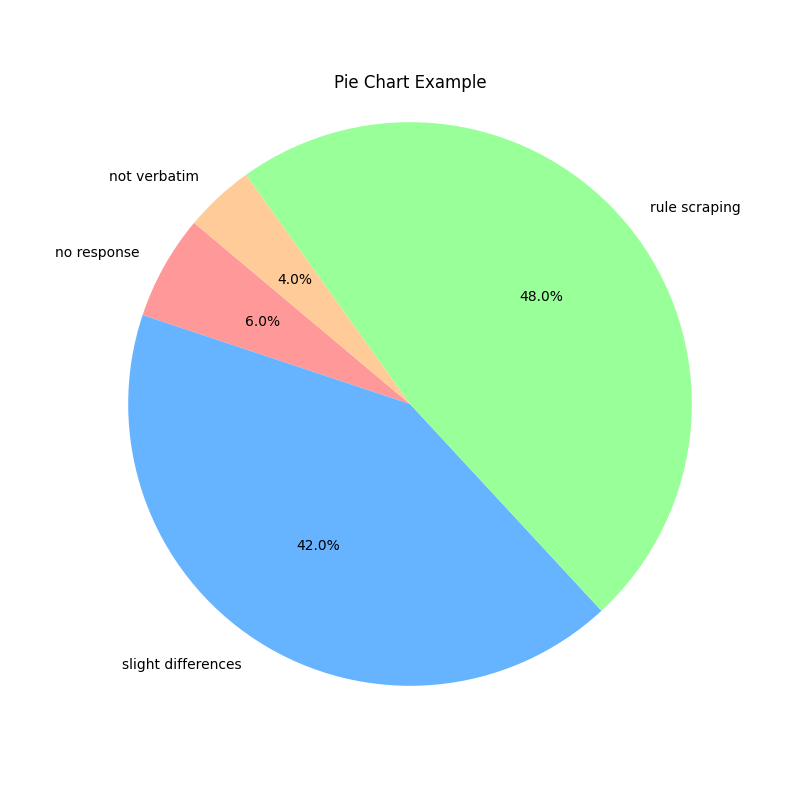
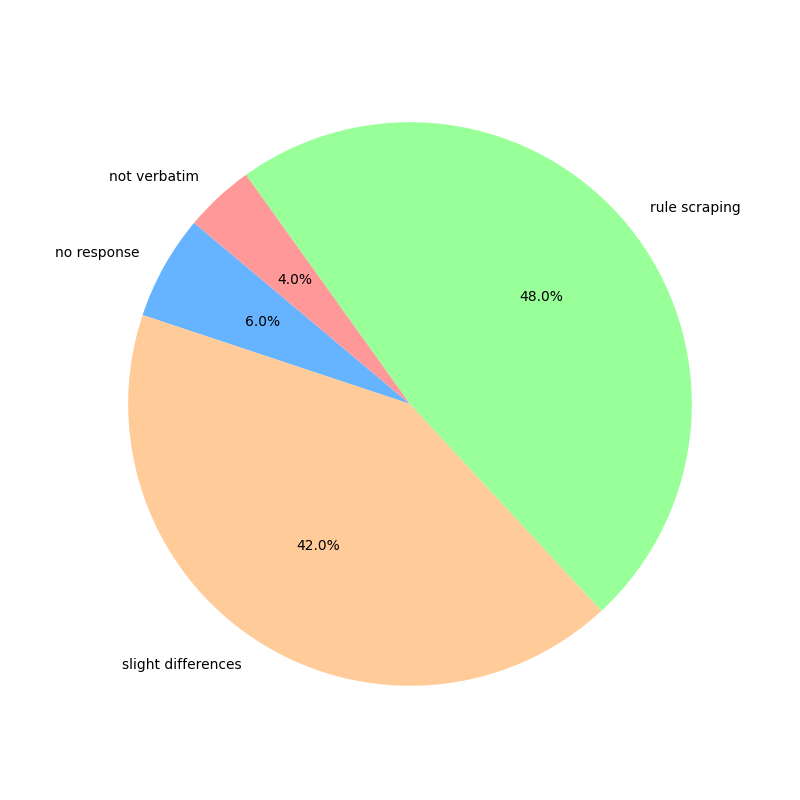
updating graphing colors

Changed region(s): [[0.1562, 0.2188, 0.75, 0.875], [0.4062, 0.0938, 0.5938, 0.125]]

diff --git a/graphing/graphing_ideal_rag_issue.py b/graphing/graphing_ideal_rag_issue.py
@@ -16,6 +16,9 @@ print(mistake_values)
 
 # Example data
 categories = df_cleaned['mistake_type'].unique().tolist()
+print("categories!")
+print(categories)
+
 values = [
     mistake_values[categories[0]],  # Values for Category 1
     mistake_values[categories[1]],      # Values for Category 2
@@ -65,12 +68,11 @@ plt.savefig('graphing/idealrag_issue.png')
 
 # Example data
 sizes = [len(mistake_values[categories[0]]), len(mistake_values[categories[1]]), len(mistake_values[categories[2]]), len(mistake_values[categories[3]])]  # Four different values
-colors = ['#ff9999','#66b3ff','#99ff99','#ffcc99']  # Different colors for each section
+colors = ['#66b3ff','#ffcc99','#99ff99', '#ff9999']  # Different colors for each section
 
 # Create a pie chart
 plt.figure(figsize=(8, 8))
 plt.pie(sizes, labels=categories, colors=colors, autopct='%1.1f%%', startangle=140)
-plt.title('Pie Chart Example')
 plt.axis('equal')  # Equal aspect ratio ensures that pie is drawn as a circle.
 
 # Display the plot
